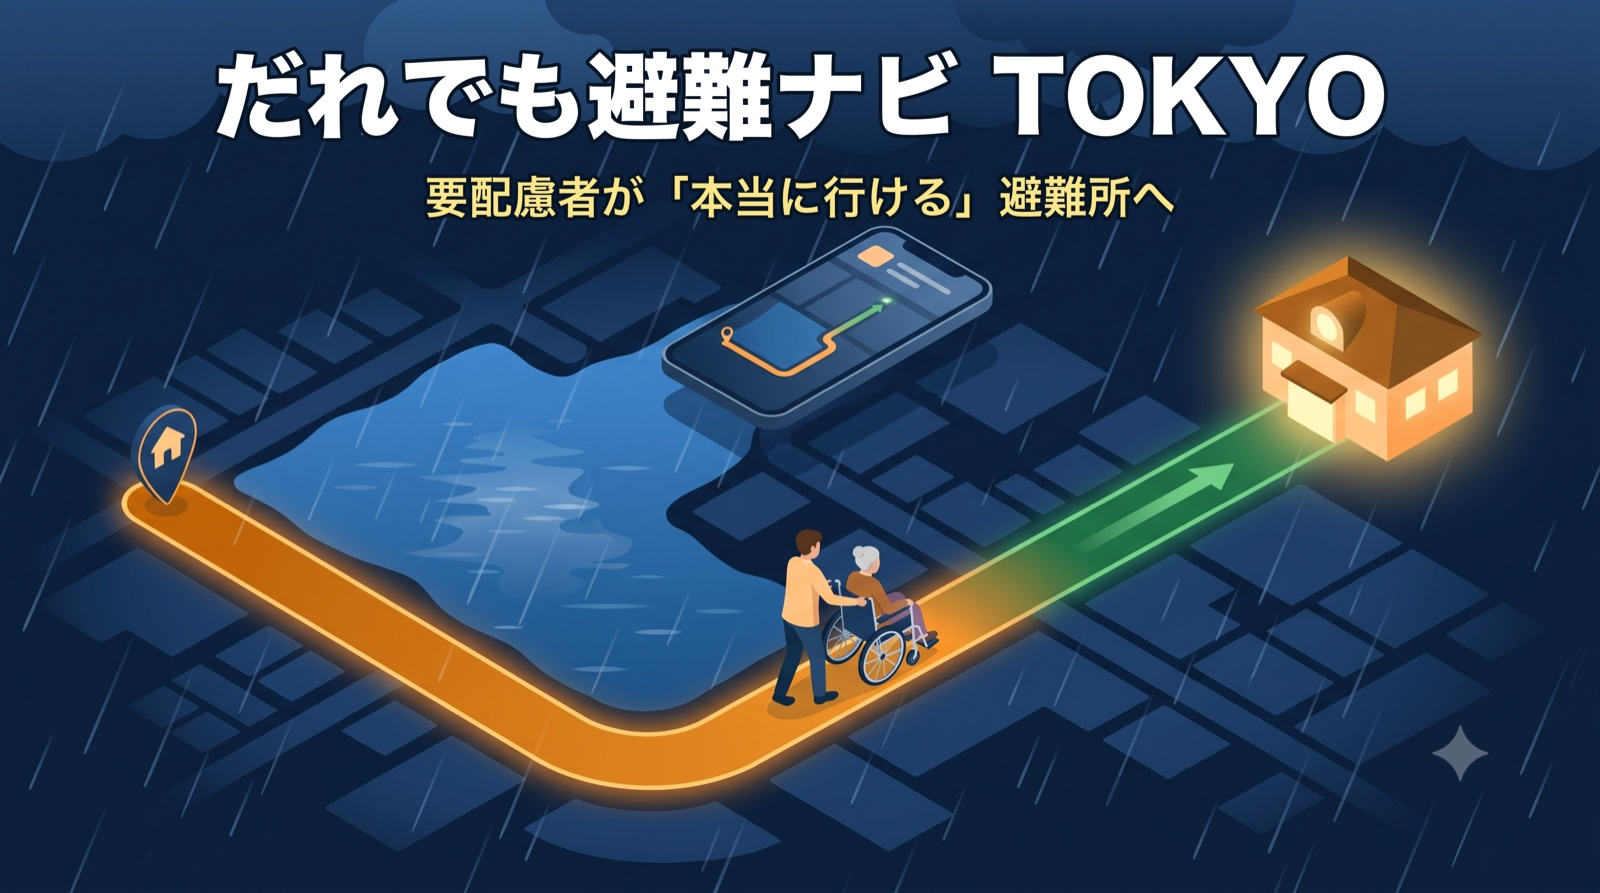
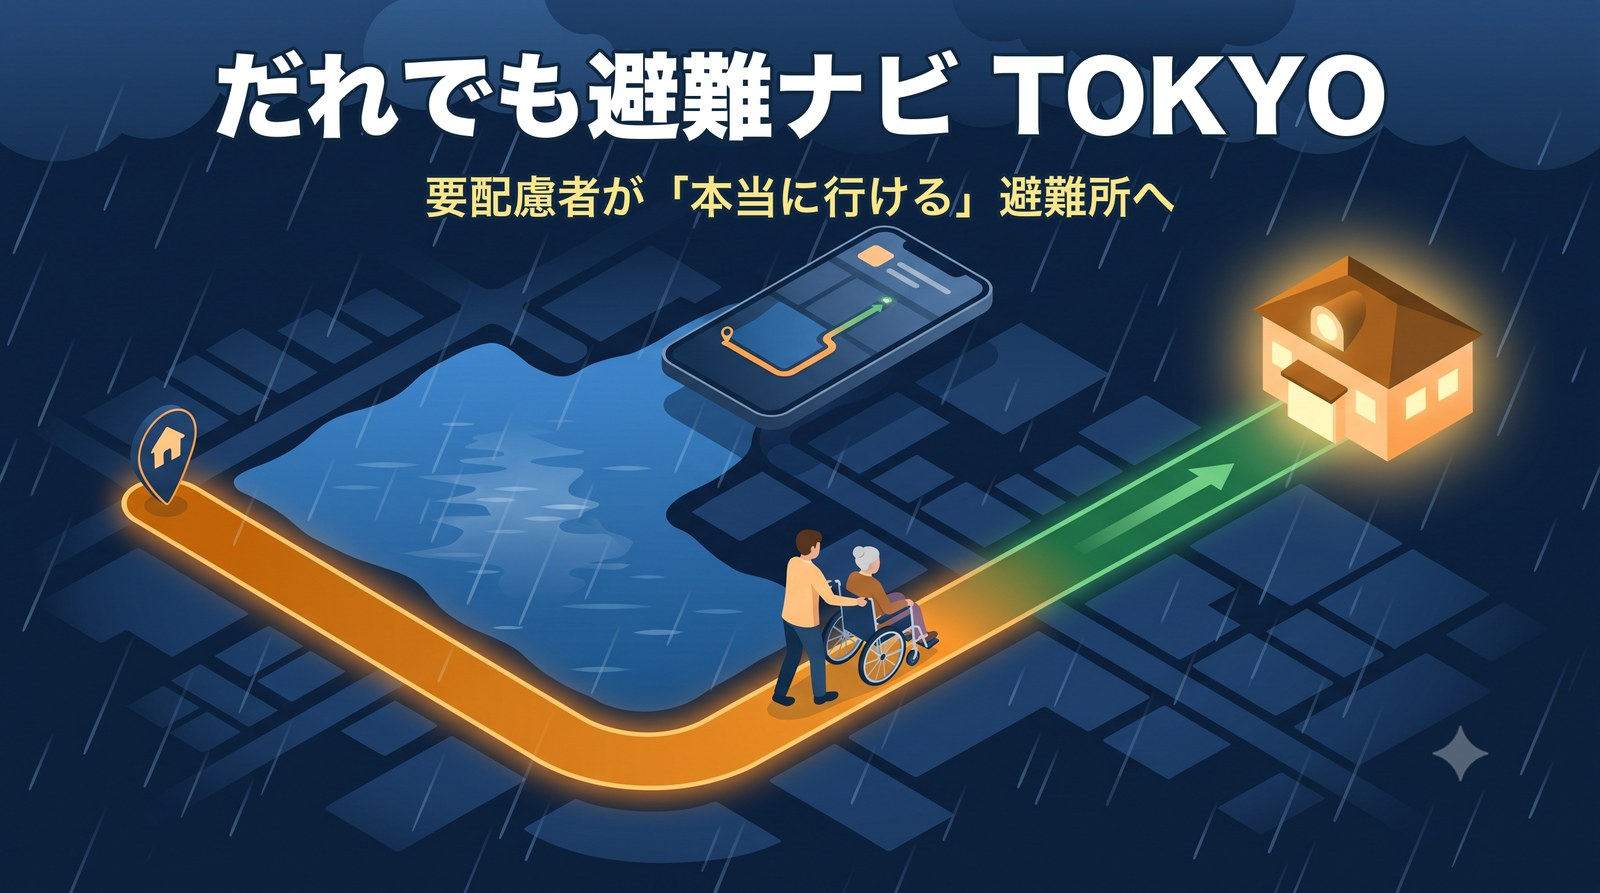
fix: サムネ生成をPillowのみでOS非依存化＋縁取り色を#0f2740に統一＋前提をREADMEに追記(#86)

diff --git a/scripts/thumbnail/overlay_title.py b/scripts/thumbnail/overlay_title.py
@@ -12,11 +12,13 @@ scripts/thumbnail/base.png（生成AIで作成した16:9のベース絵・文字
 生成AIは日本語テキスト描画が苦手なため、テキストは常にこの後段で乗せる方針。
 フォントは macOS 同梱のヒラギノ角ゴ（W8/W6）。他環境では FONTS のパスを変更する。
 """
-import subprocess
 import sys
 from pathlib import Path
 
 from PIL import Image, ImageDraw, ImageFont
+
+# README/ポスター用JPGの横幅。原寸(2752)から縮小して軽量化する
+JPG_WIDTH = 1600
 
 HERE = Path(__file__).resolve().parent
 ROOT = HERE.parent.parent
@@ -43,7 +45,7 @@ def main() -> None:
     f_title = ImageFont.truetype(FONT_TITLE, int(H * 0.105))
     f_sub = ImageFont.truetype(FONT_SUB, int(H * 0.050))
 
-    def draw_center(y: int, text: str, font, fill, stroke_fill=(6, 20, 36), stroke=6) -> int:
+    def draw_center(y: int, text: str, font, fill, stroke_fill=(15, 39, 64), stroke=6) -> int:  # 縁取り=#0f2740
         bb = draw.textbbox((0, 0), text, font=font, stroke_width=stroke)
         x = (W - (bb[2] - bb[0])) // 2 - bb[0]
         draw.text((x, y), text, font=font, fill=fill, stroke_width=stroke, stroke_fill=stroke_fill)
@@ -55,12 +57,10 @@ def main() -> None:
 
     OUT_PNG.parent.mkdir(parents=True, exist_ok=True)
     img.save(OUT_PNG)
-    # README/ポスター用に幅1600へ縮小した軽量JPG
-    subprocess.run(
-        ["sips", "-Z", "1600", "-s", "format", "jpeg", "-s", "formatOptions", "88",
-         str(OUT_PNG), "--out", str(OUT_JPG)],
-        check=True, capture_output=True,
-    )
+    # README/ポスター用に幅JPG_WIDTHへ縮小した軽量JPG。Pillowのみで完結しOS非依存
+    # （macOSのsips依存を避ける）。RGBなのでそのままJPEG保存可。
+    h2 = round(H * JPG_WIDTH / W)
+    img.resize((JPG_WIDTH, h2), Image.LANCZOS).save(OUT_JPG, quality=88)
     print(f"✅ {OUT_PNG}  ({OUT_PNG.stat().st_size / 1e6:.1f} MB)")
     print(f"✅ {OUT_JPG}  ({OUT_JPG.stat().st_size / 1e3:.0f} KB)")
 

diff --git a/scripts/thumbnail/README.md b/scripts/thumbnail/README.md
@@ -9,6 +9,14 @@ base.png（生成AIの16:9ベース絵・文字なし）
 docs/video-thumb.png（原寸マスター）／ docs/video-thumb.jpg（軽量・README用）
 ```
 
+## 前提
+
+- Python 3 ＋ Pillow: `pip install Pillow`（または `uv pip install Pillow`）
+- 日本語フォント: 既定は macOS 同梱のヒラギノ角ゴ（W8/W6）。**非macOS環境では**
+  `overlay_title.py` の `FONT_TITLE`/`FONT_SUB` を手元の日本語太字フォント
+  （例: Noto Sans JP の Bold/Medium）のパスに変更する。
+- JPG 生成は Pillow だけで完結（OS非依存。macOS の `sips` には依存しない）。
+
 ## 手順
 
 ```bash
